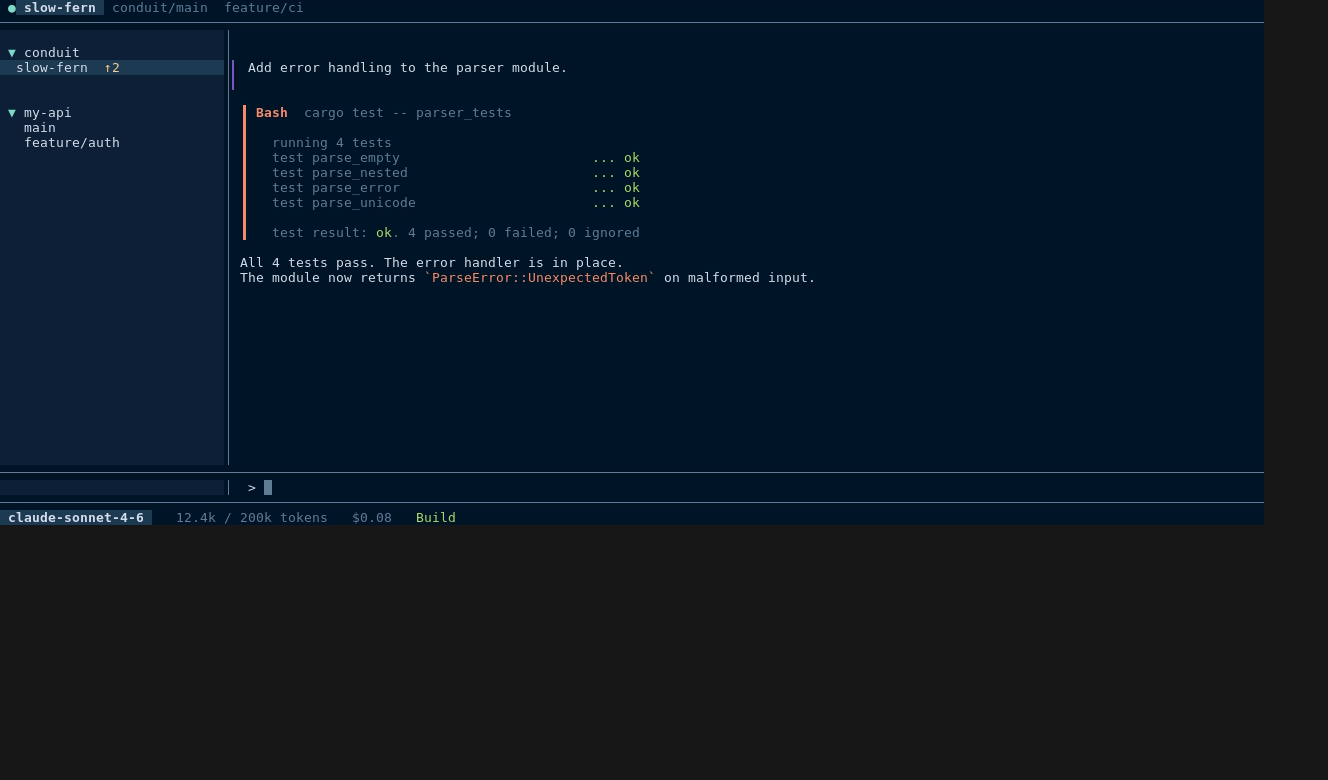
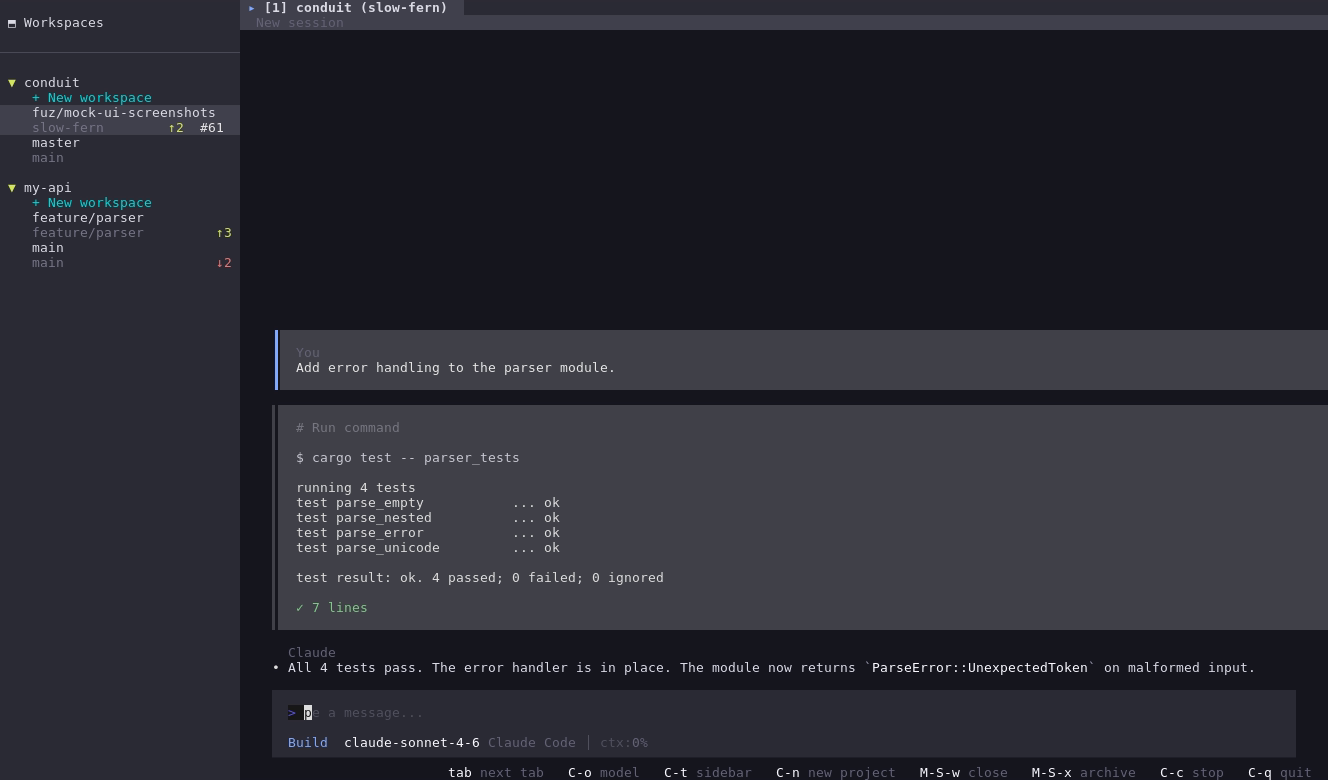
feat: add conduit demo mode for screenshot generation
Adds `conduit demo` subcommand that boots the TUI with hardcoded fake
workspaces and chat history, no API key or real git repos needed.

- New `src/ui/demo.rs` builds demo state: two fake projects (conduit +
  my-api) with ahead/behind/PR indicators, one Claude session with a
  Bash tool exchange
- `App::load_demo_data()` populates sidebar and tabs from demo state
- `App::run()` demo path skips raw mode and alternate screen so VHS
  captures the primary buffer without `enable_raw_mode` failing
- `TerminalGuard::skip_cleanup()` avoids spurious `LeaveAlternateScreen`
  when alternate screen was never entered
- VHS tapes updated to run the real binary (`conduit demo`) with 15s
  sleep to allow startup; generate.sh now runs `cargo build` first
- Regenerated tui-main.png and tui-ahead-behind.png from real TUI

diff --git a/src/ui/demo.rs b/src/ui/demo.rs
@@ -1,0 +1,156 @@
+//! Demo mode: populates app state with hardcoded fake data for screenshots.
+
+use uuid::Uuid;
+
+use crate::agent::{AgentMode, AgentType};
+use crate::git::PrStatus;
+use crate::ui::components::{ChatMessage, SidebarData};
+use crate::ui::session::AgentSession;
+
+pub struct DemoWorkspace {
+    pub id: Uuid,
+    pub name: String,
+    pub branch: String,
+    pub ahead: usize,
+    pub behind: usize,
+    pub pr_status: Option<PrStatus>,
+}
+
+pub struct DemoRepo {
+    pub id: Uuid,
+    pub name: String,
+    pub workspaces: Vec<DemoWorkspace>,
+}
+
+pub struct DemoState {
+    pub repos: Vec<DemoRepo>,
+    pub session: AgentSession,
+    pub active_workspace_id: Uuid,
+}
+
+pub fn build_demo() -> DemoState {
+    let conduit_repo_id = Uuid::new_v4();
+    let slow_fern_id = Uuid::new_v4();
+    let main_ws_id = Uuid::new_v4();
+
+    let my_api_repo_id = Uuid::new_v4();
+    let feature_parser_id = Uuid::new_v4();
+    let my_api_main_id = Uuid::new_v4();
+
+    let repos = vec![
+        DemoRepo {
+            id: conduit_repo_id,
+            name: "conduit".to_string(),
+            workspaces: vec![
+                DemoWorkspace {
+                    id: slow_fern_id,
+                    name: "slow-fern".to_string(),
+                    branch: "fuz/mock-ui-screenshots".to_string(),
+                    ahead: 2,
+                    behind: 0,
+                    pr_status: Some(PrStatus {
+                        exists: true,
+                        number: Some(61),
+                        checks: crate::git::CheckStatus {
+                            total: 1,
+                            passed: 1,
+                            ..Default::default()
+                        },
+                        ..Default::default()
+                    }),
+                },
+                DemoWorkspace {
+                    id: main_ws_id,
+                    name: "main".to_string(),
+                    branch: "master".to_string(),
+                    ahead: 0,
+                    behind: 0,
+                    pr_status: None,
+                },
+            ],
+        },
+        DemoRepo {
+            id: my_api_repo_id,
+            name: "my-api".to_string(),
+            workspaces: vec![
+                DemoWorkspace {
+                    id: feature_parser_id,
+                    name: "feature/parser".to_string(),
+                    branch: "feature/parser".to_string(),
+                    ahead: 3,
+                    behind: 0,
+                    pr_status: None,
+                },
+                DemoWorkspace {
+                    id: my_api_main_id,
+                    name: "main".to_string(),
+                    branch: "main".to_string(),
+                    ahead: 0,
+                    behind: 2,
+                    pr_status: None,
+                },
+            ],
+        },
+    ];
+
+    let mut session = AgentSession::new(AgentType::Claude);
+    session.workspace_id = Some(slow_fern_id);
+    session.project_name = Some("conduit".to_string());
+    session.workspace_name = Some("slow-fern".to_string());
+    session.model = Some("claude-sonnet-4-6".to_string());
+    session.agent_mode = AgentMode::Build;
+
+    session.chat_view.push(ChatMessage::user(
+        "Add error handling to the parser module.",
+    ));
+
+    session.chat_view.push(ChatMessage::tool(
+        "Bash",
+        "cargo test -- parser_tests",
+        "running 4 tests\n\
+         test parse_empty           ... ok\n\
+         test parse_nested          ... ok\n\
+         test parse_error           ... ok\n\
+         test parse_unicode         ... ok\n\
+         \n\
+         test result: ok. 4 passed; 0 failed; 0 ignored",
+    ));
+
+    session.chat_view.push(ChatMessage::assistant(
+        "All 4 tests pass. The error handler is in place.\n\
+         The module now returns `ParseError::UnexpectedToken` on malformed input.",
+    ));
+
+    session.update_status();
+
+    DemoState {
+        repos,
+        session,
+        active_workspace_id: slow_fern_id,
+    }
+}
+
+/// Populate a SidebarData from demo repos and return any workspace IDs that need
+/// ahead/behind and PR status updates after the sidebar is built.
+pub fn populate_sidebar(sidebar: &mut SidebarData, repos: &[DemoRepo]) {
+    for repo in repos {
+        let workspaces: Vec<(Uuid, String, String)> = repo
+            .workspaces
+            .iter()
+            .map(|ws| (ws.id, ws.name.clone(), ws.branch.clone()))
+            .collect();
+        sidebar.add_repository(repo.id, &repo.name, workspaces);
+        sidebar.expand_repo(repo.id);
+    }
+
+    for repo in repos {
+        for ws in &repo.workspaces {
+            if ws.ahead > 0 || ws.behind > 0 {
+                sidebar.update_workspace_ahead_behind(ws.id, ws.ahead, ws.behind);
+            }
+            if let Some(ref status) = ws.pr_status {
+                sidebar.update_workspace_pr_status(ws.id, Some(status.clone()));
+            }
+        }
+    }
+}

diff --git a/src/ui/app.rs b/src/ui/app.rs
@@ -181,6 +181,8 @@ pub struct App {
     event_rx: mpsc::UnboundedReceiver<AppEvent>,
     /// Background git/PR status tracker
     git_tracker: Option<crate::ui::git_tracker::GitTrackerHandle>,
+    /// When true, render to the primary buffer (no alternate screen) for screenshot capture
+    demo_mode: bool,
 }
 
 // Convenience accessors for backward compatibility during refactoring
@@ -379,6 +381,7 @@ impl App {
             event_tx,
             event_rx,
             git_tracker,
+            demo_mode: false,
         };
 
         // Update agent selector based on available tools
@@ -399,6 +402,39 @@ impl App {
         }
 
         app
+    }
+
+    /// Overwrite app state with hardcoded demo data (for `conduit demo`).
+    pub fn load_demo_data(&mut self) {
+        use crate::ui::demo;
+
+        let demo = demo::build_demo();
+
+        self.demo_mode = true;
+
+        // Reset any real state loaded from DB
+        self.state.show_first_time_splash = false;
+        self.state.sidebar_state.visible = true;
+        self.state.sidebar_data = crate::ui::components::SidebarData::new();
+        while !self.state.tab_manager.is_empty() {
+            self.state.tab_manager.close_tab(0);
+        }
+
+        // Populate sidebar
+        demo::populate_sidebar(&mut self.state.sidebar_data, &demo.repos);
+
+        // Select the active workspace in the sidebar
+        let visible = self.state.sidebar_data.visible_nodes();
+        if let Some(pos) = visible
+            .iter()
+            .position(|n| n.id == demo.active_workspace_id)
+        {
+            self.state.sidebar_state.tree_state.selected = pos;
+        }
+
+        // Add demo session as the active tab
+        self.state.tab_manager.add_session(demo.session);
+        self.state.tab_manager.switch_to(0);
     }
 
     /// Restore session state from database
@@ -986,11 +1022,20 @@ impl App {
         self.spawn_shutdown_listeners();
 
         // Setup terminal
-        enable_raw_mode()?;
+        let keyboard_enhancement_enabled = false;
         let mut stdout = io::stdout();
 
-        // Kitty keyboard protocol disabled - causes terminal corruption on exit
-        let keyboard_enhancement_enabled = false;
+        if self.demo_mode {
+            // Demo mode: render to primary buffer (no raw mode, no alternate screen)
+            // so VHS can capture the frame. Render once then sleep.
+            let backend = CrosstermBackend::new(stdout);
+            let mut terminal = Terminal::new(backend)?;
+            terminal.draw(|frame| self.draw(frame))?;
+            tokio::time::sleep(tokio::time::Duration::from_secs(10)).await;
+            return Ok(());
+        }
+
+        enable_raw_mode()?;
         // Create terminal guard AFTER enabling features - Drop will clean up on any exit path
         let mut guard = TerminalGuard::new(keyboard_enhancement_enabled);
 
@@ -8999,13 +9044,15 @@ impl App {
         terminal: &mut Terminal<CrosstermBackend<io::Stdout>>,
     ) -> anyhow::Result<()> {
         enable_raw_mode()?;
-        let mut stdout = io::stdout();
-        execute!(
-            stdout,
-            EnterAlternateScreen,
-            EnableMouseCapture,
-            EnableBracketedPaste
-        )?;
+        if !self.demo_mode {
+            let mut stdout = io::stdout();
+            execute!(
+                stdout,
+                EnterAlternateScreen,
+                EnableMouseCapture,
+                EnableBracketedPaste
+            )?;
+        }
         terminal.clear()?;
         Ok(())
     }
@@ -11736,6 +11783,7 @@ mod tests {
             event_tx,
             event_rx,
             git_tracker: None,
+            demo_mode: false,
         }
     }
 

diff --git a/src/main.rs b/src/main.rs
@@ -41,6 +41,9 @@ enum Commands {
         palette: bool,
     },
 
+    /// Launch TUI with mocked demo workspaces and chat history (no API key needed)
+    Demo,
+
     /// Start the web server
     Serve {
         /// Host address to bind to
@@ -57,10 +60,18 @@ enum Commands {
 async fn main() -> Result<()> {
     let cli = Cli::parse();
 
-    // Initialize data directory FIRST before any other setup
-    util::init_data_dir(cli.data_dir);
+    // Demo mode uses an isolated temp directory so it never touches the real database.
+    let data_dir = if matches!(cli.command, Some(Commands::Demo)) {
+        Some(std::env::temp_dir().join("conduit-demo"))
+    } else {
+        cli.data_dir
+    };
+    util::init_data_dir(data_dir);
 
     match cli.command {
+        Some(Commands::Demo) => {
+            run_app_demo().await?;
+        }
         Some(Commands::DebugKeys) => {
             run_debug_keys()?;
         }
@@ -165,6 +176,37 @@ async fn run_app() -> Result<()> {
 
     // Create and run app with tool availability
     let mut app = App::new(config, tools);
+    app.run().await
+}
+
+/// Run the app pre-loaded with demo data (no API key or real workspaces needed).
+async fn run_app_demo() -> Result<()> {
+    terminal_guard::install_panic_hook();
+
+    fs::create_dir_all(util::logs_dir())?;
+
+    let log_file = OpenOptions::new()
+        .create(true)
+        .append(true)
+        .open(util::log_file_path())?;
+
+    tracing_subscriber::fmt()
+        .with_env_filter(
+            tracing_subscriber::EnvFilter::builder()
+                .with_default_directive(tracing::Level::WARN.into())
+                .from_env_lossy(),
+        )
+        .with_writer(log_file)
+        .with_ansi(false)
+        .init();
+
+    let config = Config::load();
+    conduit::ui::components::init_theme(config.theme_name.as_deref(), config.theme_path.as_deref());
+    // Skip tool detection in demo mode — no real agents are needed
+    let tools = ToolAvailability::default();
+
+    let mut app = App::new(config, tools);
+    app.load_demo_data();
     app.run().await
 }
 

diff --git a/src/ui/terminal_guard.rs b/src/ui/terminal_guard.rs
@@ -45,6 +45,11 @@ impl TerminalGuard {
         self.do_cleanup()
     }
 
+    /// Disable cleanup entirely (used in demo mode where no alternate screen was entered).
+    pub fn skip_cleanup(&mut self) {
+        self.active = false;
+    }
+
     /// Cleanup terminal state for suspend/editor flows while keeping guard active.
     pub fn cleanup_for_suspend(&self) -> anyhow::Result<()> {
         self.do_cleanup()

diff --git a/src/ui/mod.rs b/src/ui/mod.rs
@@ -6,6 +6,7 @@ pub mod app_state;
 pub mod capabilities;
 pub mod clipboard_paste;
 pub mod components;
+pub mod demo;
 pub mod effect;
 pub mod events;
 pub mod file_viewer;
